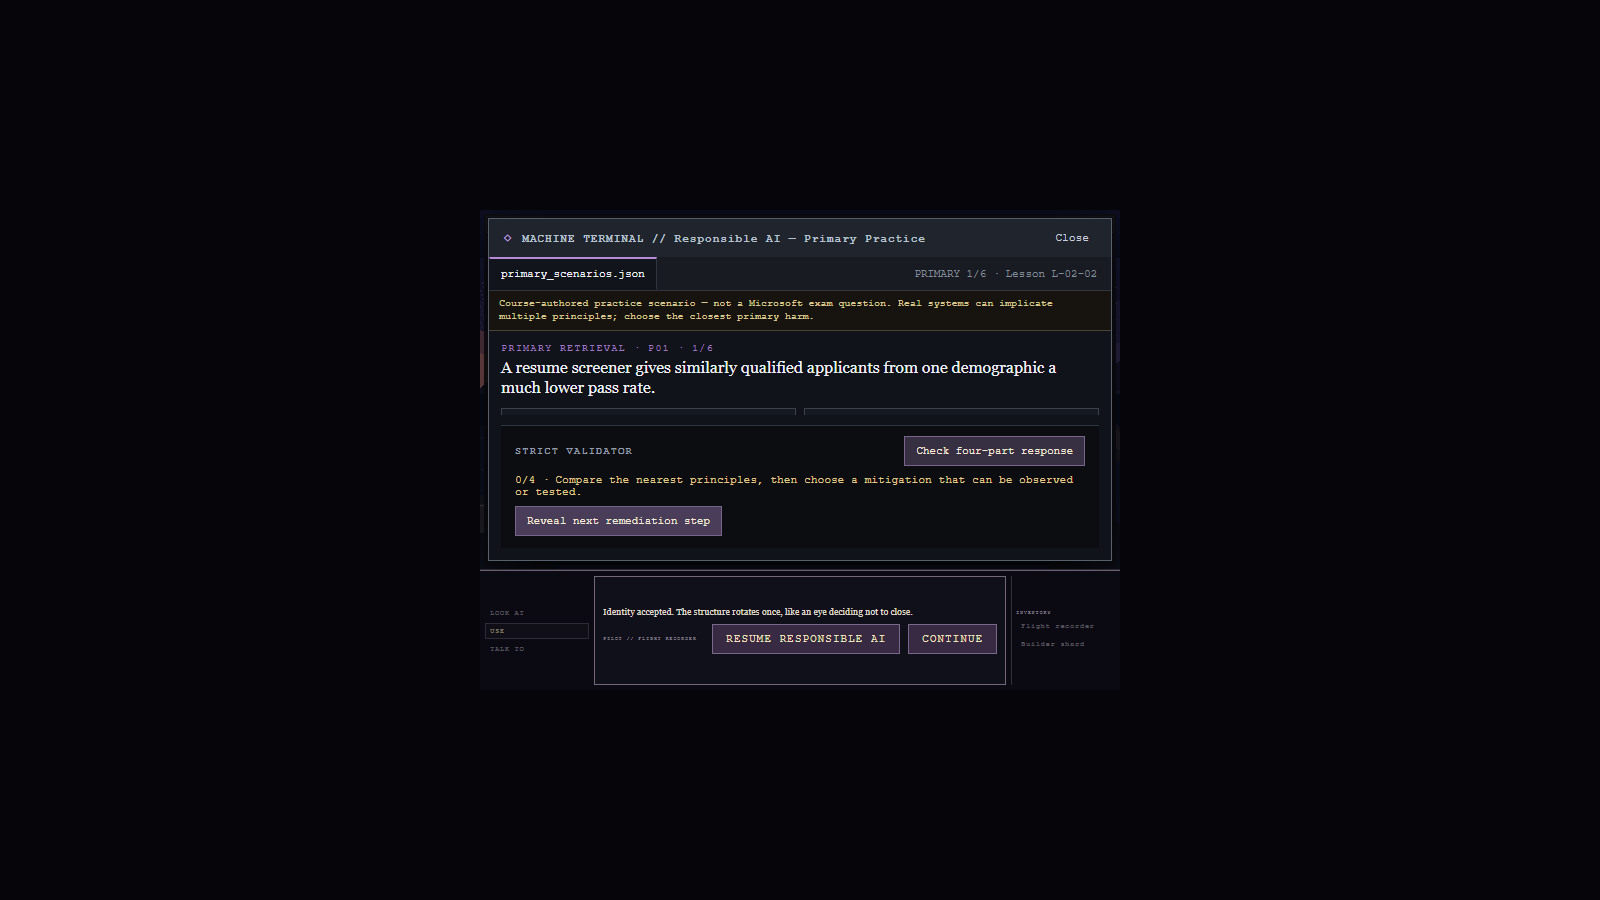
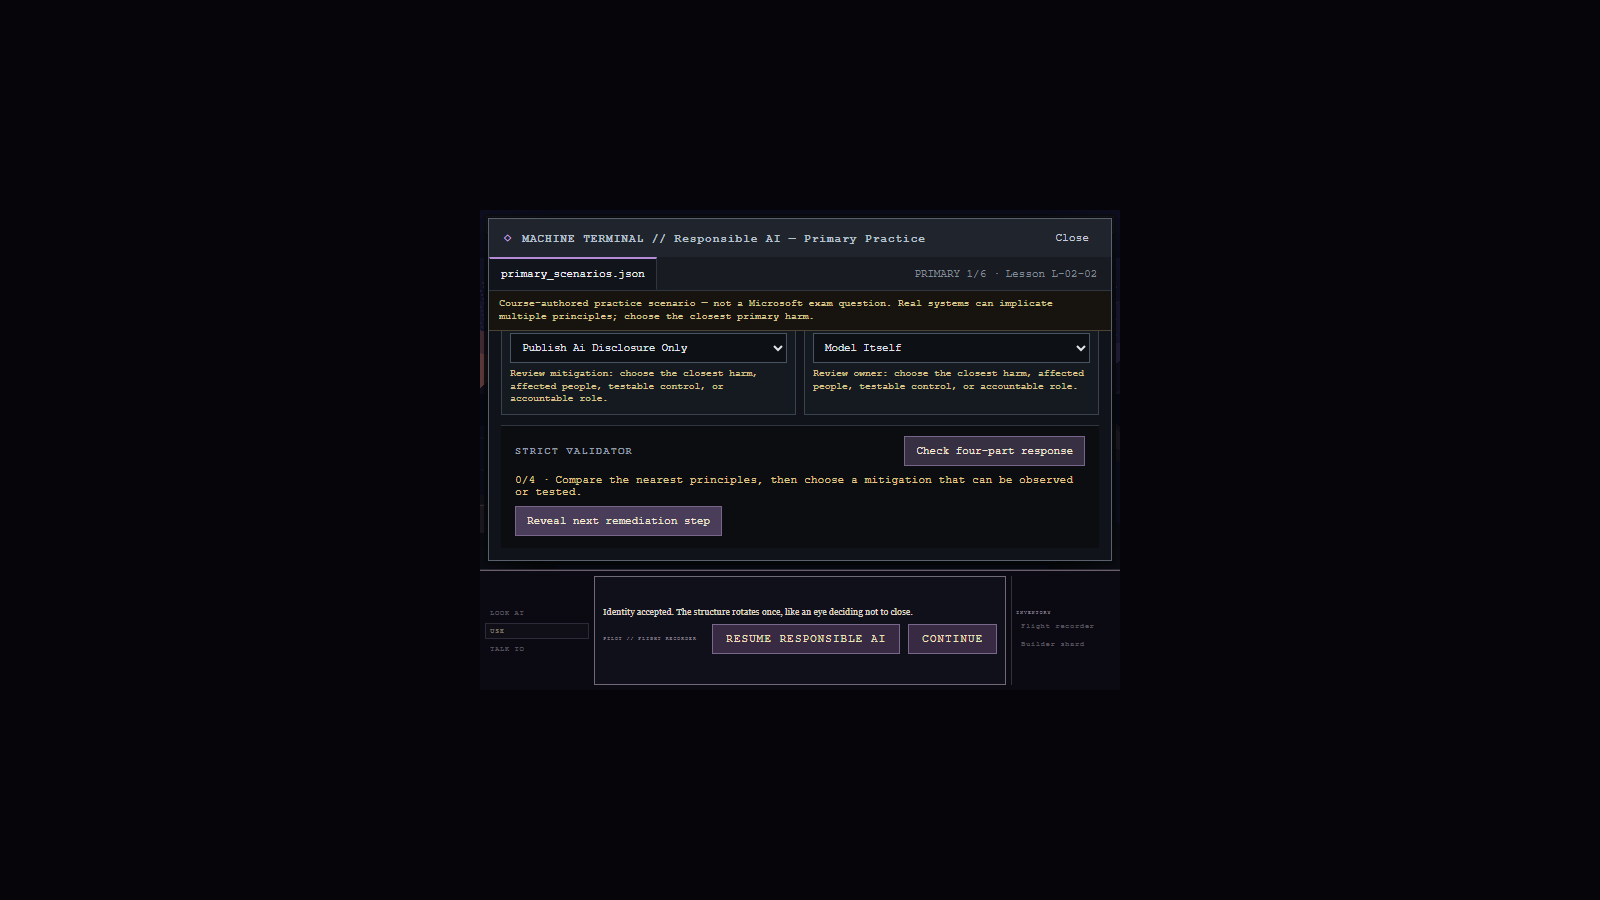
Round 6 step 6 Pixel Patrol Agent checkpoint

Changed region(s): [[0.3125, 0.3733, 0.6875, 0.4667]]

diff --git a/horizon-archive-game/src/styles.css b/horizon-archive-game/src/styles.css
@@ -481,6 +481,9 @@ h1 {
 .canonical-game-frame .speaker,
 .canonical-game-frame .inventory-title { font-size: 5px; }
 .canonical-game-frame .terminal-workbench { inset: 8px; width: auto; height: auto; overflow: auto; }
+.canonical-game-frame .terminal-workbench[data-terminal-exercise="EX-L0202-RESPONSIBLE-AI"] { overflow: hidden; }
+.canonical-game-frame .responsible-ai-form { display: block; min-height: 0; overflow: auto; }
+.canonical-game-frame .responsible-ai-fields { margin: 10px 0; overflow: visible; }
 
 .canonical-game-frame[data-canonical-layout="narrow"] .command-panel { grid-template-columns: 56px minmax(0, 1fr) 56px; gap: 2px; padding: 2px; }
 .canonical-game-frame[data-canonical-layout="narrow"] .verb,

diff --git a/Pixel Patrol/WORK_LOG.md b/Pixel Patrol/WORK_LOG.md
@@ -1,5 +1,13 @@
 # Pixel Patrol Work Log
 
+## 2026-07-12 — Responsible AI native-frame audit
+
+- **Completed:** audited the Responsible AI primary form in the native 640 x 480 frame. The existing 624 x 344 Terminal attempted to keep its header, four-field grid, and 105 px validator simultaneously visible, collapsing the field grid to approximately 18 px in the selected QA capture. Replaced that squeeze layout inside CanonicalGameFrame with one contained form scroller; field cards now retain natural label/select/feedback height and the validator remains after the fourth field in the same reading flow. The exercise-specific outer Terminal overflow is hidden so focus scrolls the form rather than pushing title/status chrome out of view. The 320 x 240 alternate keeps its single-column form inside the same scroll contract.
+- **Files changed:** `horizon-archive-game/src/styles.css`, `Pixel Patrol/PIXEL_METRICS.md`, `Pixel Patrol/UI_AND_TYPE_SPEC.md`, `Pixel Patrol/QA_CHECKLIST.md`, and this log.
+- **Validation:** all 35 unit tests, production build, and full title-to-credits browser regression pass with zero runtime errors. Static checks lock the 8 px/4 px Terminal insets, canonical 624 x 344 and narrow 312 x 172 border boxes, exactly one responsible-form overflow owner, visible field-grid overflow, two-column canonical and one-column narrow grouping, and existing whole-pixel focus treatment. The refreshed native capture confirms title/status chrome remains fixed while two complete field cards, their associated remediation, validator score, and next action share the visible scrolled region; the first pair remains immediately above in the same form scroller.
+- **Next recommended item:** Location Scout should keep the Responsible AI node's four physical indicator groups vertically ordered and visually distinct so the world object foreshadows the form's principle -> stakeholder -> mitigation -> owner reading order without adding labels to the landscape.
+- **Unresolved risks:** the current capture uses Courier New and native browser selects rather than final original bitmap glyphs and controls. Preserve functional select and scrollbar affordances until equivalent accessible pixel-native replacements exist.
+
 ## 2026-07-12 — Calibration keyboard-help placement
 
 - **Completed:** resolved the Exercise Agent handoff by moving the exact ungraded keyboard-orientation sentence from between route status and task content into the persistent final row of the Calibration workspace. Locked native metrics are 102 characters, 612 px glyph run at 6 px advance, 632 px including insets, and a 19 px canonical footer. The 320 px alternate preserves the exact copy as three lines in a 43 px footer.

diff --git a/Pixel Patrol/UI_AND_TYPE_SPEC.md b/Pixel Patrol/UI_AND_TYPE_SPEC.md
@@ -91,3 +91,13 @@ Decision: place the exact sentence `Tab moves through this workspace. Shift+Tab 
 ## Safe failure contract
 
 Every failure response contains: what the Machine observed, one bounded cue, and one next available action. Required controls remain enabled. Hints do not reduce attempts or erase work. There are no dead ends, item-loss traps, surprise deaths, or irreversible ordinary experiments.
+
+## Responsible AI primary-form containment
+
+- The canonical Terminal sits 8 px inside the 640 x 360 world viewport, producing a 624 x 344 border box. The authored 320 x 240 alternate uses a 4 px inset.
+- Do not force prompt, four field cards, and validator into three simultaneously visible grid rows. The initial 640 x 480 QA capture compressed the field region to approximately 18 px, exposing only card borders and hiding the actual controls.
+- Treat the form as one vertically scrollable document: scenario header -> principle -> stakeholder -> mitigation -> accountable human owner -> validator -> remediation/action.
+- The four-field container itself must not scroll. Each card takes its natural height for label, select, and associated feedback. This prevents nested-scroll traps and keeps keyboard focus movement consistent with visual movement.
+- The validator follows the fourth field. Because the learner must reach its submit button to validate, resulting error/remediation text appears in the same visible region without an automatic viewport jump.
+- Scrollbars, borders, and focus outlines remain square and whole-pixel. Use the browser's functional scrollbar until an original accessible pixel scrollbar exists; never hide the only position cue.
+- At 640 x 480, retain the two-column field grouping. At 320 x 240, use one column and the same single form scroller. No field label, selected value, feedback association, or focus outline may be horizontally clipped.

diff --git a/Pixel Patrol/PIXEL_METRICS.md b/Pixel Patrol/PIXEL_METRICS.md
@@ -15,6 +15,8 @@ All numbers are logical pixels unless explicitly labeled CSS pixels.
 | Minimum visual control | 18 x 18 | Horizon adaptation |
 | Minimum pointer target | 22 x 22 logical at 2x, yielding 44 x 44 CSS | Accessibility adaptation |
 | Calibration help footer | 640 x 19; 102 characters at 6 px advance + 20 px inset = 632 px | Horizon adaptation |
+| Responsible AI Terminal inset | 8 px canonical; 4 px narrow | Implemented Horizon metric |
+| Responsible AI field card | natural content height; never compressed below label + select + feedback | Horizon adaptation |
 
 Do not compose the final frame from a separately scaled 320 x 180 world and responsive HTML UI. Render the complete 640 x 480 logical surface, then scale that surface as one unit.
 
@@ -72,3 +74,4 @@ At 1x capture:
 - No text glyph feature thinner than 1 px.
 - Every status color has a shape, label, or motion partner.
 - Calibration help is one untruncated line at 640 px and three complete lines in the 320 px alternate layout.
+- Responsible AI uses one contained vertical form scroller. Its header, four complete field cards, validator, remediation, and next action remain in one reading order; no nested field-grid scrollbar is permitted.

diff --git a/Pixel Patrol/QA_CHECKLIST.md b/Pixel Patrol/QA_CHECKLIST.md
@@ -61,6 +61,11 @@ Run at native 640 x 480, 2x 1280 x 960, the 320 x 240 alternate layout, and a no
 - [ ] At 640 px it occupies one line with no clipping, ellipsis, or horizontal scroll; at 320 px it wraps to three complete lines.
 - [ ] The footer does not cover the last focusable pane control at any scroll position.
 - [ ] Focused Calibration tabs retain a visible 2 px internal outline, including when the selected tab is focused.
+- [ ] Responsible AI field cards show complete labels and selects; none collapse into border-only strips.
+- [ ] Responsible AI has one form scroller at both 640 x 480 and 320 x 240; the field grid does not create a nested scrollbar.
+- [ ] Tab order and scroll order both remain principle -> stakeholder -> mitigation -> owner -> validator -> remediation.
+- [ ] The focused select outline remains visible at the top and bottom scroll boundaries.
+- [ ] After Check, score, remediation, and the next available action are visible together in the validator region.
 
 ## No-dead-end sweep
 
